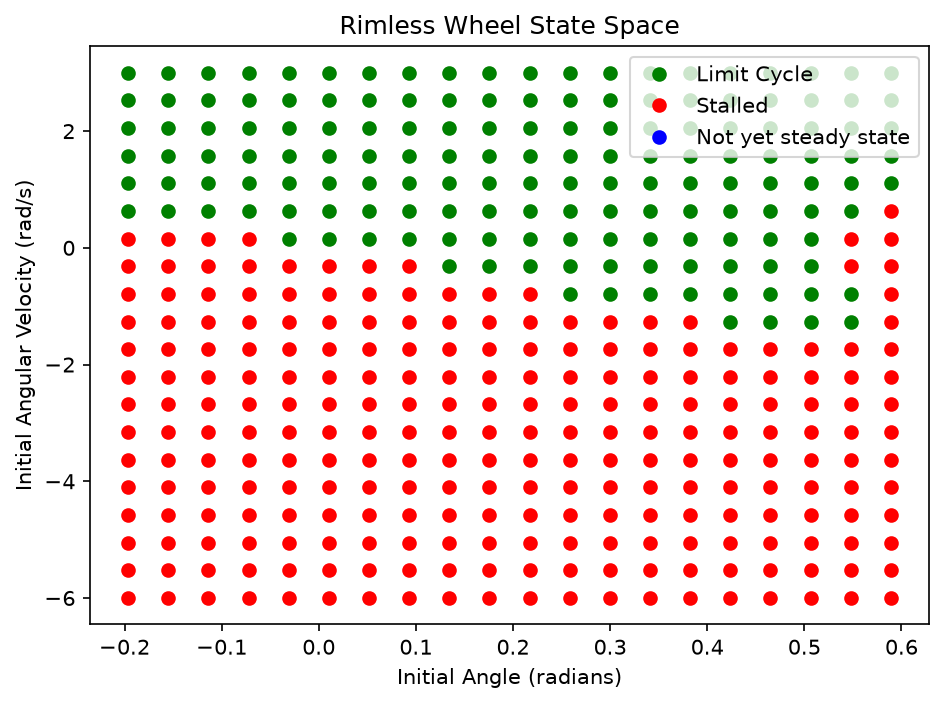
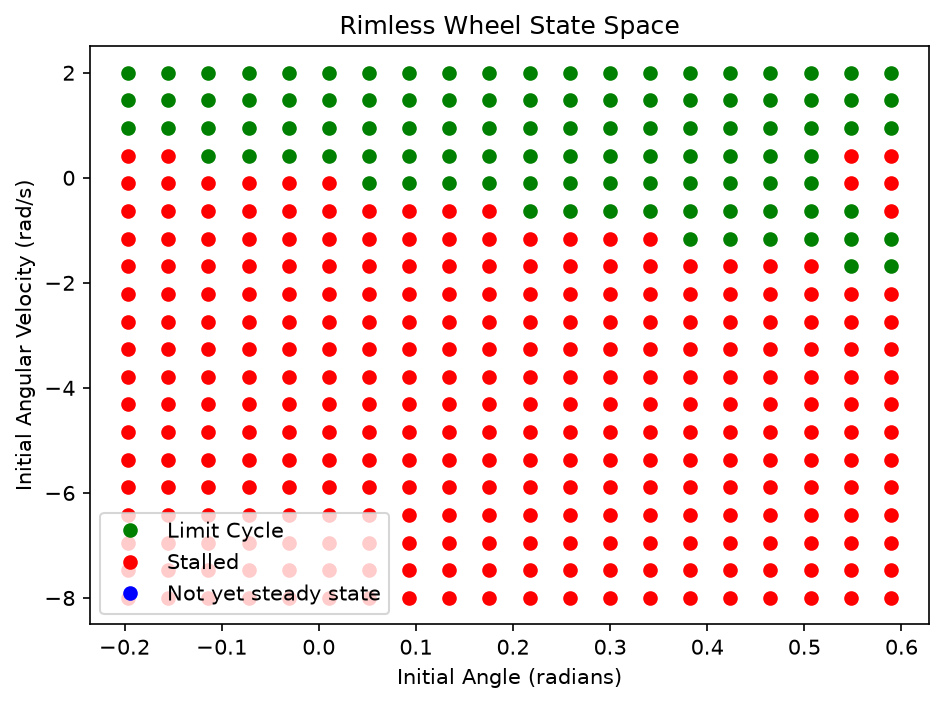
tried fixing bacj dynamics (currently commentedout)

diff --git a/A1_RimlessWheel/assignment_1.py b/A1_RimlessWheel/assignment_1.py
@@ -49,7 +49,7 @@ def singlesim(spoke_number, gamma, length, initial_state, sim_time):
     #initialize variables
     state_traj = np.zeros((2, 1))
     state_traj[:, 0] = initial_state
-    switch_angular_velocity = []  # tracks angular velocity at switchs over time
+    switch_angular_velocity_forward = []  # tracks angular velocity at switches forward
     steady_state_behavior = None #initialize steady state behavior variable
     step = 0
     t = 0
@@ -58,21 +58,20 @@ def singlesim(spoke_number, gamma, length, initial_state, sim_time):
     #simulation loop including switch between spokes
     while t < sim_time:
         #better time efficiency by switching timestep
-        if abs(state_traj[0,step] - (alpha+gamma)) < 0.05: #within .05 rads of switch
-            timestep = 1e-5 #smaller timestep for more accurate switch
+        if abs((alpha+gamma) - state_traj[0,step]) < 0.05 or abs((-alpha+gamma) - state_traj[0,step]) < 0.05:
+            #within .05 rads of switch back or forward
+            timestep = 1e-4 #smaller timestep for more accurate switch
         else:
             timestep = 1e-2 #larger timestep for faster simulation
 
-        #change dynamics if stance spoke switch
-        if state_traj[0, step] >= alpha + gamma: #switch spoke condition at angle = alpha + gamma
-            state_traj[0, step] -= 2 * alpha  # make angle -alpha + gamma
+        #change dynamics if stance spoke switch forward
+        if state_traj[0, step] >= (alpha + gamma) and state_traj[1, step] > 0: #switch spoke condition at angle = alpha + gamma
+            state_traj[0, step] = -alpha + gamma  # make angle -alpha + gamma
             state_traj[1, step] *= np.cos(2 * alpha)  # change angular velocity
-            switch_angular_velocity.append(state_traj[1, step])  # store angular velocity after switch
-            #
-            if len(switch_angular_velocity) > 1 and np.isclose(switch_angular_velocity[-1], switch_angular_velocity[-2], rtol=0.01):
-                        steady_state_behavior = "Limit Cycle"
-                        #break #uncomment if want to save time by stopping sim when steady state reached
-                        # warning: will reduce datapoints in return map
+            switch_angular_velocity_forward.append(state_traj[1, step])  # store angular velocity after switch
+        # elif state_traj[0, step] <= -alpha + gamma and state_traj[1, step] < -0.05:
+        #     state_traj[0, step] = alpha + gamma
+        #     state_traj[1, step] *= np.cos(2 * alpha)
 
         #update state using RK4 method
         new_state = rk4_step(state_traj[0, step], state_traj[1, step], timestep, length, gravity)
@@ -83,16 +82,19 @@ def singlesim(spoke_number, gamma, length, initial_state, sim_time):
         step += 1
         time_traj.append(t)
 
+    #check if limit cycle
+    if len(switch_angular_velocity_forward) > 1 and np.isclose(switch_angular_velocity_forward[-1], switch_angular_velocity_forward[-2], rtol=0.01):
+        steady_state_behavior = "Limit Cycle"
     #other cases for not limit cycle
-    if steady_state_behavior != "Limit Cycle":
-        if len(switch_angular_velocity) > 1:
+    else:
+        if len(switch_angular_velocity_forward) > 1:
             steady_state_behavior = "Not yet steady state" #assume less than 2 switch = stalled
         else:
             steady_state_behavior = "Stalled"
 
     #return time and state trajectories, steady state behavior (Limit cycle, Not yet steady state, Stalled)
     #and the angular velocities after each spoke switch
-    return time_traj, state_traj, steady_state_behavior, switch_angular_velocity
+    return time_traj, state_traj, steady_state_behavior, switch_angular_velocity_forward
 
 """
 Default Variables Used (unless changed for specific function/task)
@@ -102,7 +104,23 @@ spoke_number = 8 #number of spokes N
 gamma = np.pi/16 #angle of slope in radians
 alpha = (2*np.pi/spoke_number)/2 #angle between adjacent spokes in radians
 length = 1 #length of the spokes in meters
-sim_time = 5
+sim_time = 8
+initial_state= [.5, -3]
+
+#SINGLE SIM SANITY CHECK
+# Run a single simulation
+time_traj, state_traj, steady_state_behavior, switch_angular_velocity = singlesim(spoke_number,
+                gamma, length,initial_state, sim_time)
+# print(steady_state_behavior)
+# print(len(switch_angular_velocity))
+plt.figure()
+plt.plot(time_traj, state_traj[0, :], label="Theta")
+plt.xlabel("Time (s)")
+plt.ylabel("angle")
+plt.title("Rimless Wheel Single Simulation")
+plt.legend()
+plt.grid()
+plt.show()
 
 """
 Part 1: Region of Attraction for rimless wheel
@@ -115,7 +133,7 @@ def RegionOfAttraction(gamma, spoke_number):
     #Creating state space for rimless wheel initial conditions
     state_space_range = 20 #higher = more resolution but more runtime
     theta_range = np.linspace(-alpha + gamma, alpha + gamma, state_space_range)
-    thetadot_range = np.linspace(-3, 3, state_space_range)
+    thetadot_range = np.linspace(-8, 2, state_space_range)
 
     #make empty lists to store when limit cycle or stall
     limitcycle_theta = []
@@ -335,8 +353,4 @@ plt.legend()
 plt.tight_layout()
 plt.savefig("floquet_spokenumber.png", dpi=150, bbox_inches='tight')
 plt.show()
-
-
-
-
 
